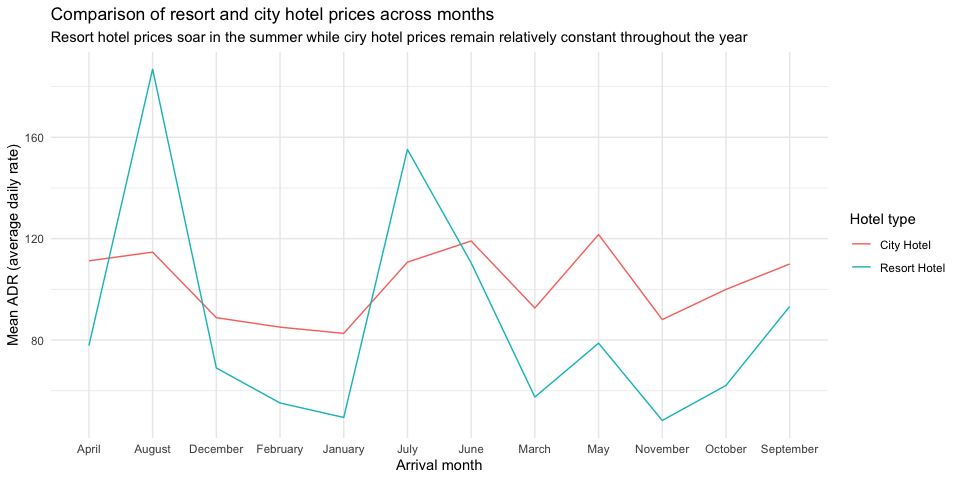
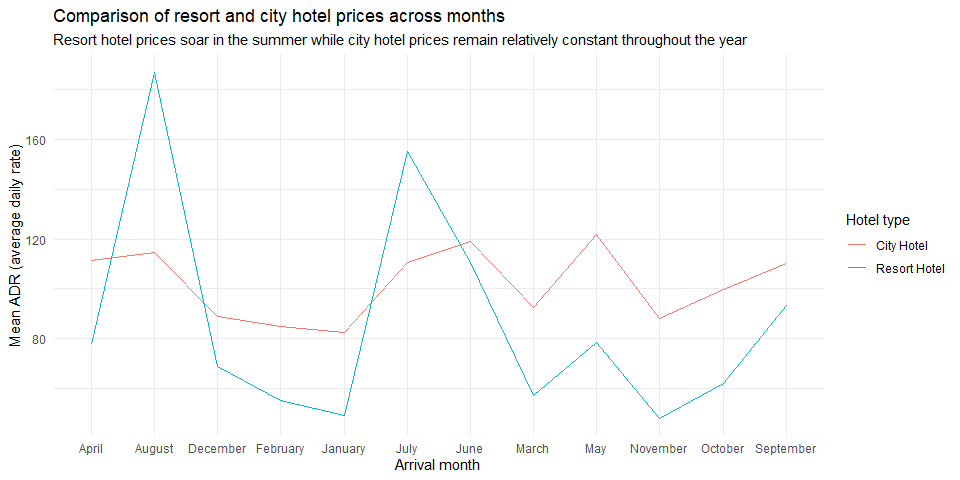
updated 6272022

diff --git a/hotels-forcats.md b/hotels-forcats.md
@@ -1,6 +1,6 @@
 Hotel bookings - factors
 ================
-Mine Çetinkaya-Rundel
+Naomi Ekas
 
 ``` r
 library(tidyverse)
@@ -12,7 +12,7 @@ library(skimr)
 hotels <- read_csv("https://raw.githubusercontent.com/rfordatascience/tidytuesday/master/data/2020/2020-02-11/hotels.csv")
 ```
 
-First, knit the document and view the following visualisation. How are
+First, knit the document and view the following visualization. How are
 the months ordered? What would be a better order? Then, reorder the
 months on the x-axis (levels of `arrival_date_month`) in a way that
 makes more sense. You will want to use a function from the **forcats**
@@ -28,7 +28,7 @@ inspiration and help.
 ``` r
 hotels %>%
   group_by(hotel, arrival_date_month) %>%   # group by hotel type and arrival month
-  summarise(mean_adr = mean(adr)) %>%       # calculate mean adr for each group
+  summarize(mean_adr = mean(adr)) %>%       # calculate mean adr for each group
   ggplot(aes(
     x = arrival_date_month,                 # x-axis = arrival_date_month
     y = mean_adr,                           # y-axis = mean_adr calculated above
@@ -40,10 +40,11 @@ hotels %>%
   labs(x = "Arrival month",                 # customize labels
        y = "Mean ADR (average daily rate)",
        title = "Comparison of resort and city hotel prices across months",
-       subtitle = "Resort hotel prices soar in the summer while ciry hotel prices remain relatively constant throughout the year",
+       subtitle = "Resort hotel prices soar in the summer while city hotel prices remain relatively constant throughout the year",
        color = "Hotel type")
 ```
 
-    ## `summarise()` regrouping output by 'hotel' (override with `.groups` argument)
+    ## `summarise()` has grouped output by 'hotel'. You can override using the
+    ## `.groups` argument.
 
 ![](hotels-forcats_files/figure-gfm/plot-1.png)<!-- -->
